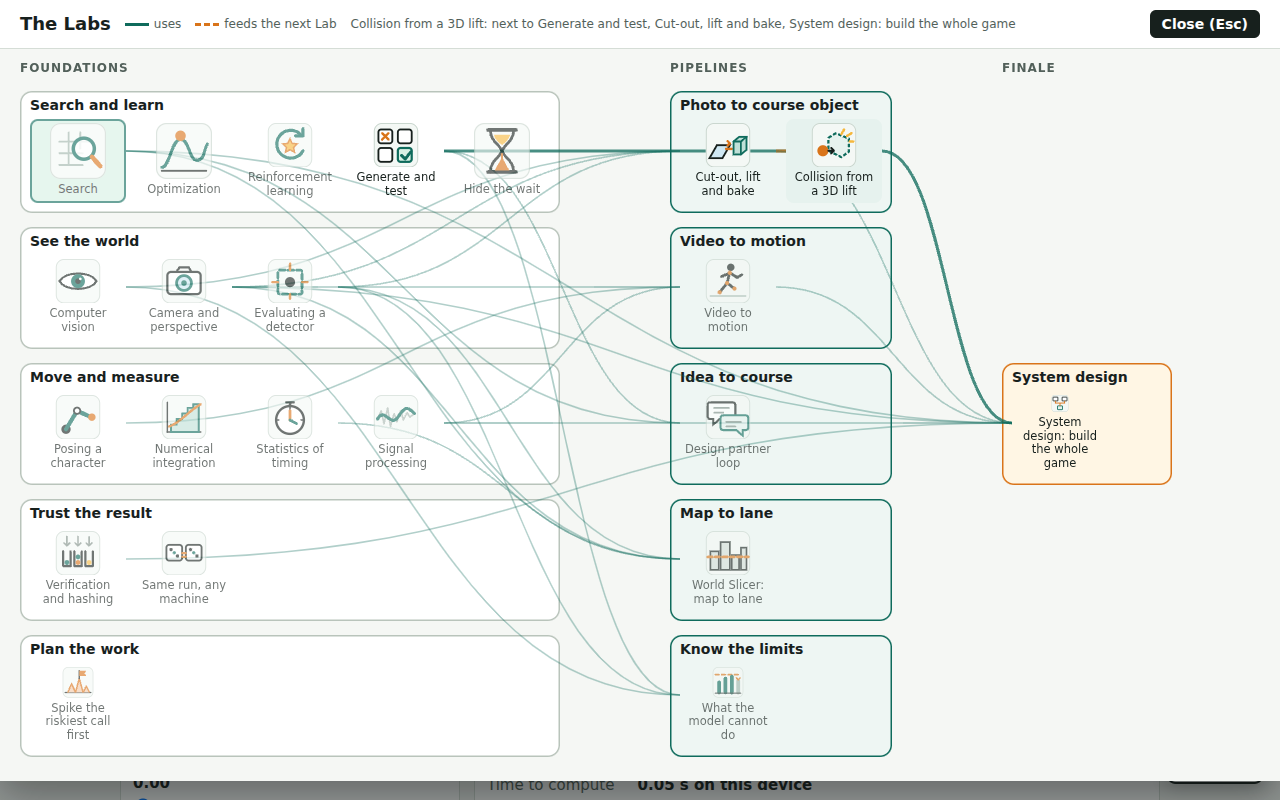
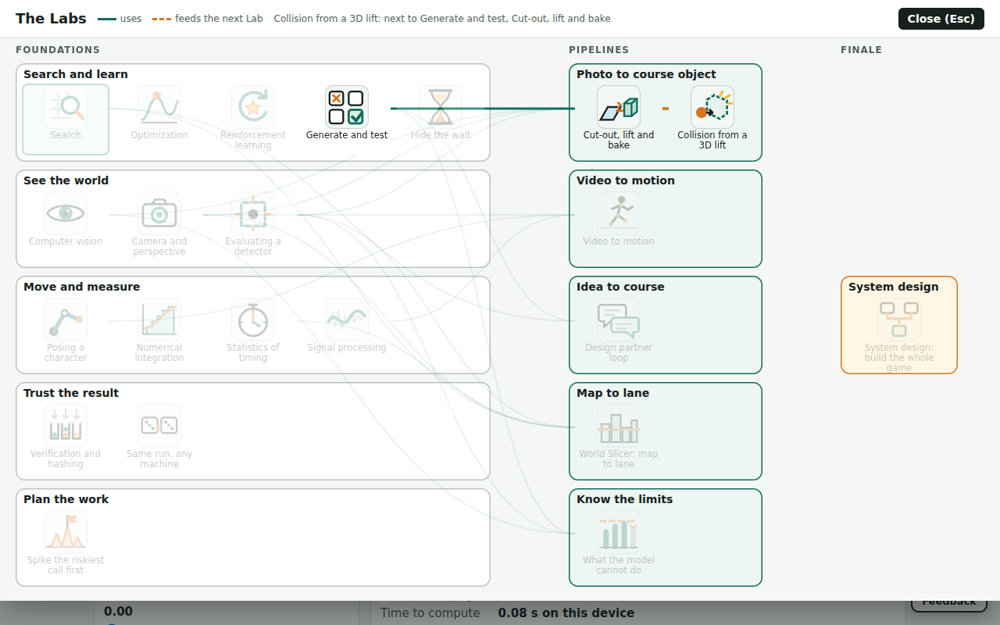
Labs panel seen in the browser: Sound button in the bar, no stray Courses outline, roomier tiles, rewritten bar smoke test, evidence - Part of CC-133

Changed region(s): [[0.0, 0.0608, 1.0, 1.0], [0.62, 0.0, 0.775, 0.0608], [0.775, 0.0608, 0.899, 0.0912]]

diff --git a/src/ui/labs-panel.ts b/src/ui/labs-panel.ts
@@ -26,14 +26,14 @@ const STYLE = `
   #labs-panel .lp-head h2{margin:0;font-size:18px}#labs-panel .lp-key{color:#52605a;font-size:12px;display:flex;gap:14px;align-items:center;flex:1}
   #labs-panel .lp-key i{display:inline-block;width:24px;border-top:3px solid #0f6b5c;margin-right:5px;vertical-align:middle}#labs-panel .lp-key i.flow{border-top:3px dashed #d9741a}
   #labs-panel .lp-close{font:700 14px system-ui;color:#fff;background:#17201d;border:0;border-radius:6px;padding:6px 12px;cursor:pointer}
-  #labs-panel .lp-body{overflow:auto;padding:12px 20px 20px}
+  #labs-panel .lp-body{overflow:auto;padding:8px 20px 14px}
   #labs-panel .lp-stage{position:relative}
   #labs-panel .lp-colhead{position:absolute;top:0;font:700 12px system-ui;letter-spacing:.08em;text-transform:uppercase;color:#52605a}
   #labs-panel .lp-box{position:absolute;box-sizing:border-box;background:#fff;box-shadow:inset 0 0 0 1.5px #b9c4bb;border-radius:12px}
   #labs-panel .lp-box[data-tier=pipelines]{background:#eef6f3;box-shadow:inset 0 0 0 1.5px #0f6b5c}
   #labs-panel .lp-box[data-tier=finale]{background:#fff6e4;box-shadow:inset 0 0 0 1.5px #d9741a}
   #labs-panel .lp-box h3{white-space:nowrap;margin:0;padding:6px 10px;font-size:14px;line-height:16px}
-  #labs-panel a.lp-tile{position:absolute;z-index:2;box-sizing:border-box;display:flex;flex-direction:column;align-items:center;gap:4px;text-align:center;text-decoration:none;color:#17201d;font-size:11.5px;line-height:1.2;border-radius:8px;padding:4px;background:#fff;transition:opacity .12s}
+  #labs-panel a.lp-tile{position:absolute;z-index:2;box-sizing:border-box;display:flex;flex-direction:column;align-items:center;gap:2px;text-align:center;text-decoration:none;color:#17201d;font-size:11.5px;line-height:1.15;border-radius:8px;padding:2px 3px;background:#fff;transition:opacity .12s}
   #labs-panel a.lp-tile svg{flex:0 0 auto}
   #labs-panel .lp-box[data-tier=pipelines] a.lp-tile{background:#eef6f3}#labs-panel .lp-box[data-tier=finale] a.lp-tile{background:#fff6e4}
   #labs-panel a.lp-tile:hover,#labs-panel a.lp-tile:focus-visible{background:#e6f2ee;outline:none}#labs-panel a.lp-tile:focus-visible{box-shadow:0 0 0 2px #ffb347}

diff --git a/src/ui/labs-panel-layout.ts b/src/ui/labs-panel-layout.ts
@@ -13,7 +13,7 @@ export interface PanelLayout { columns: PanelColumn[]; boxes: PanelBoxRect[]; ti
 export interface PanelOptions { tileW?: number; tileH?: number; gap?: number; pad?: number; head?: number; boxGap?: number; colGap?: number; top?: number; maxPerRow?: number; iconY?: number; minColW?: number }
 
 export function layoutPanel(src: MapSource = DEFAULT_SOURCE, o: PanelOptions = {}): PanelLayout {
-  const tileW = o.tileW ?? 96, tileH = o.tileH ?? 84, gap = o.gap ?? 10, pad = o.pad ?? 10, head = o.head ?? 28, boxGap = o.boxGap ?? 14, colGap = o.colGap ?? 110, top = o.top ?? 30, maxPer = o.maxPerRow ?? 5, iconY = o.iconY ?? 32, minColW = o.minColW ?? 170;
+  const tileW = o.tileW ?? 112, tileH = o.tileH ?? 92, gap = o.gap ?? 8, pad = o.pad ?? 8, head = o.head ?? 26, boxGap = o.boxGap ?? 10, colGap = o.colGap ?? 100, top = o.top ?? 24, maxPer = o.maxPerRow ?? 5, iconY = o.iconY ?? 32, minColW = o.minColW ?? 170;
   const nameOf = (m: string): string => src.labs.find((l) => l.mode === m)?.name ?? m;
   const tiers = src.tiers.filter((t) => src.groups.some((g) => g.tier === t.id && g.modes.length));
   const columns: PanelColumn[] = [], boxes: PanelBoxRect[] = [];

diff --git a/src/ui/labs-nav.ts b/src/ui/labs-nav.ts
@@ -30,7 +30,8 @@ export function mountLabsNav(host: HTMLElement, mode: string, labsEnabled: boole
     #labs-nav a[aria-disabled=true]{opacity:.4;pointer-events:none}
     #labs-nav .now{display:flex;gap:8px;align-items:center;min-width:0;font-weight:700}#labs-nav .now svg{flex:0 0 auto;width:24px;height:24px;border-radius:5px}
     #labs-nav .now span{overflow:hidden;text-overflow:ellipsis;white-space:nowrap}
-    #labs-nav .sp{flex:1}`;
+    #labs-nav .sp{flex:1}
+    #courses-btn{display:none!important}`; /* the page's own corner Courses button would show as an outline under ours */
   document.head.appendChild(style);
   const nav = document.createElement('nav');
   nav.id = 'labs-nav';
